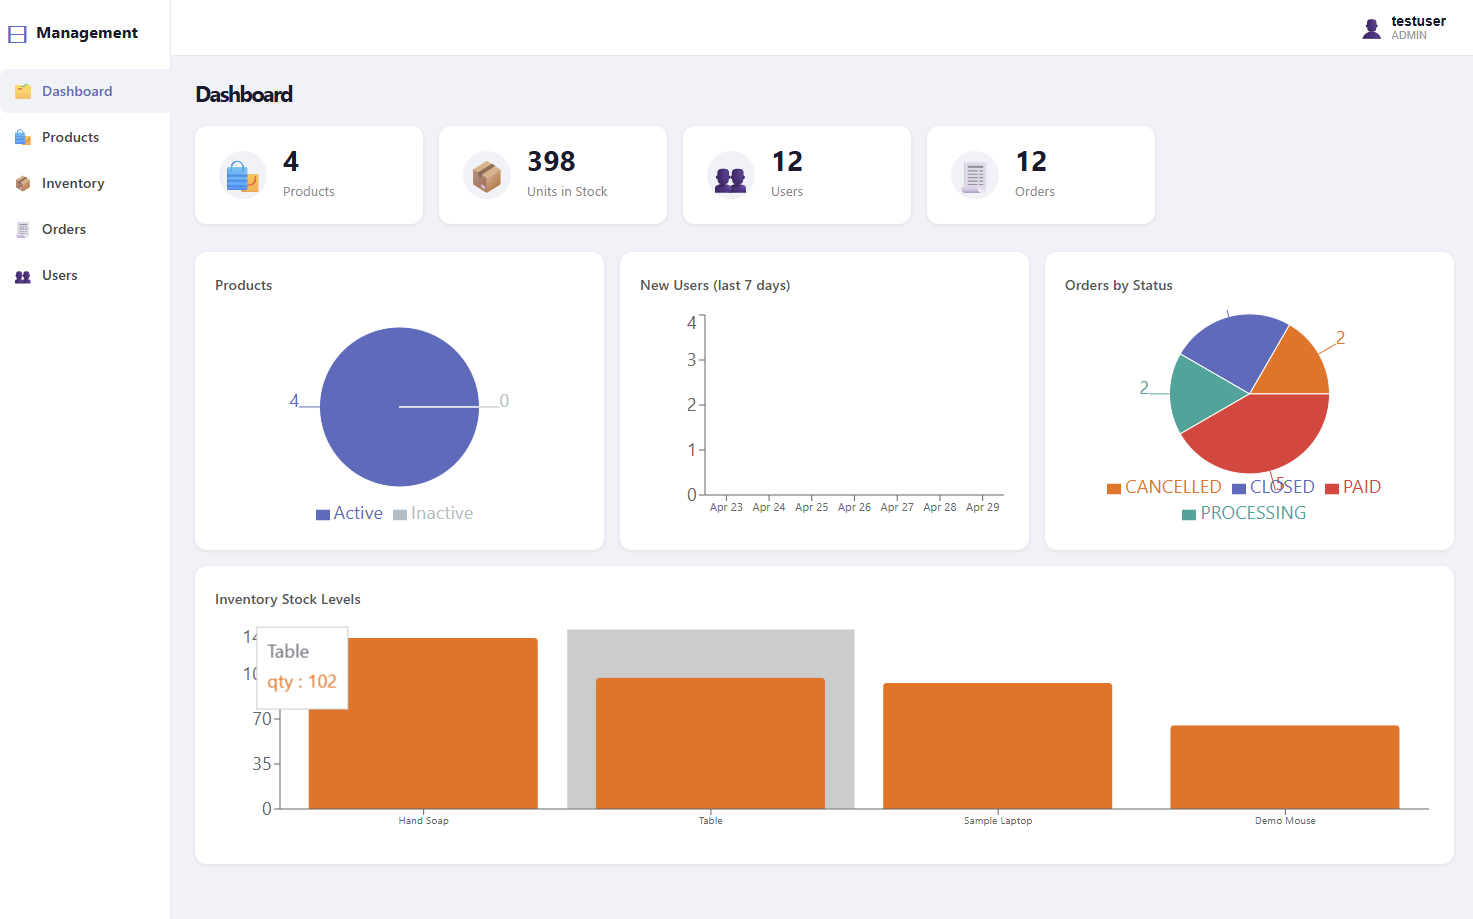
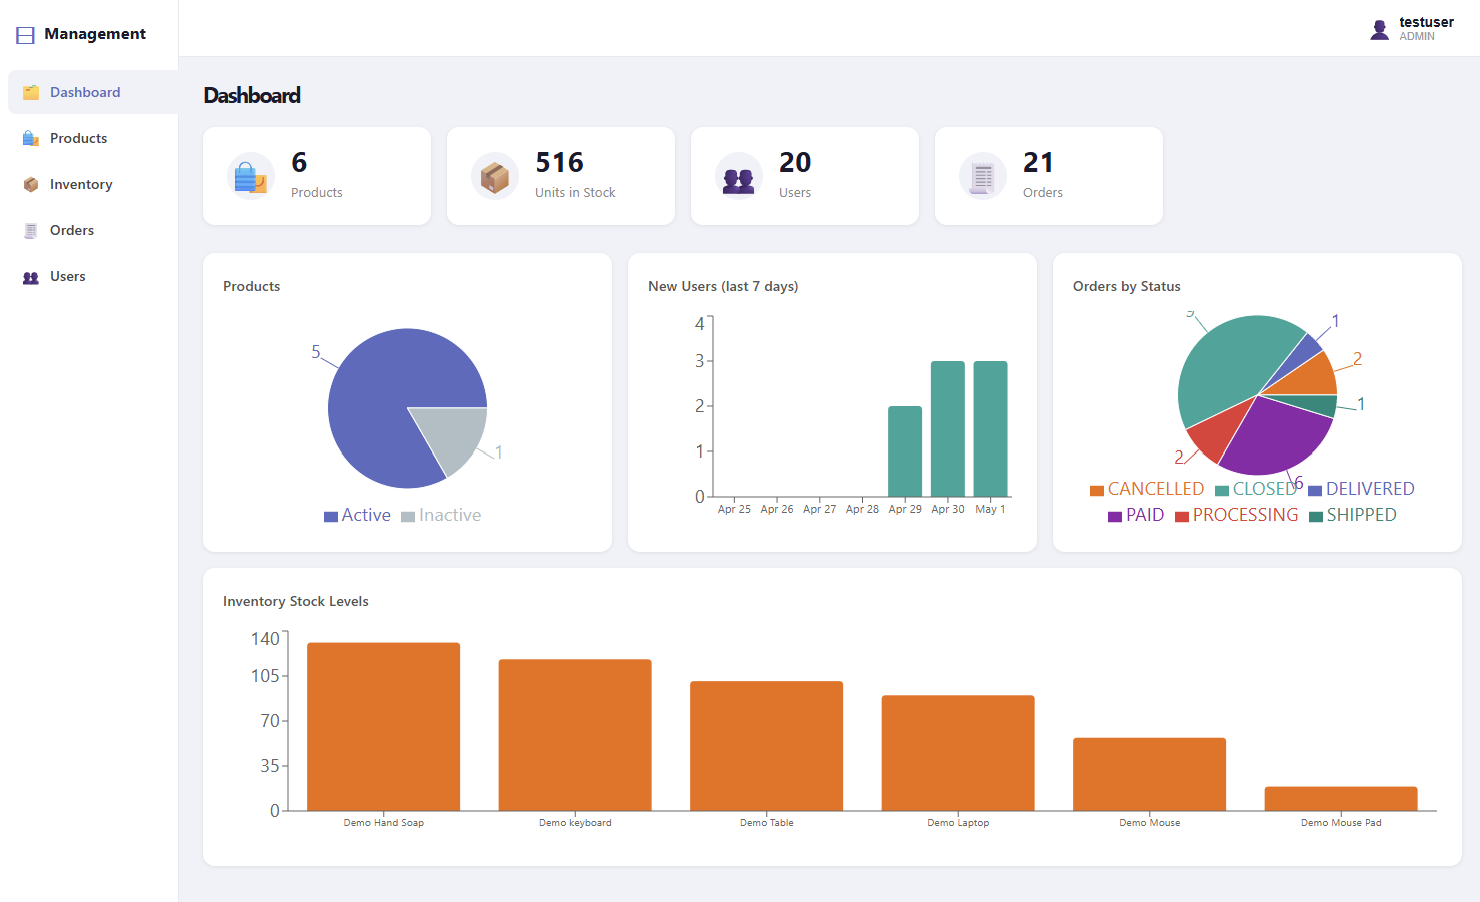
update pictures

diff --git a/README.md b/README.md
@@ -193,4 +193,4 @@ This project is developed solely for learning purposes.
 
 All images, icons, and media assets used in this system are for demonstration only and are not intended for commercial use.
 
-If any material violates copyright, please contact me, and I will remove it promptly.
+If any material violates copyright, please contact us, and I will remove it promptly.